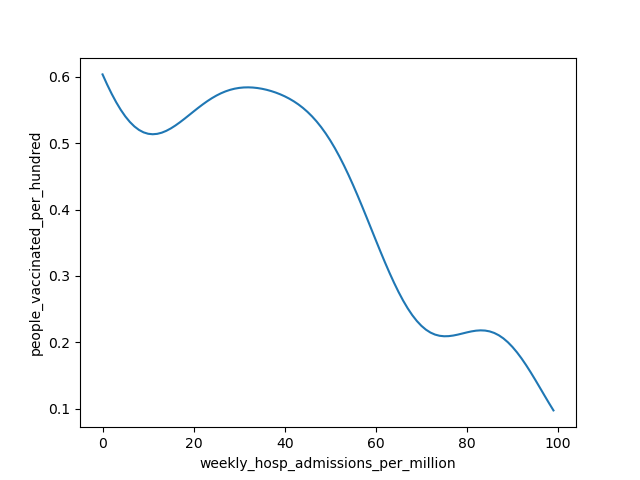
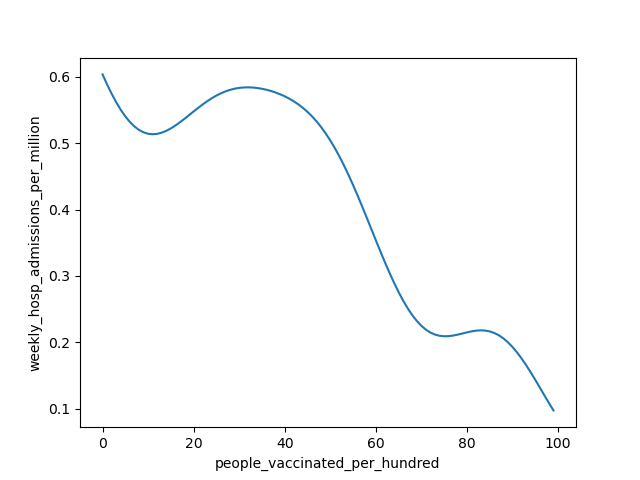
modify

Changed region(s): [[0.3125, 0.9375, 0.7188, 1.0], [0.0312, 0.25, 0.0625, 0.7812]]

diff --git a/model.py b/model.py
@@ -6,40 +6,86 @@ import pandas as pd
 import matplotlib.pyplot as plt
 import load_data
 
-data_raw = load_data.read_data("./data/owid-covid-data.csv")
-data = load_data.extract_data(
-    data_raw,
-    [
-        'reproduction_rate',
-        'total_vaccinations',
-        'people_vaccinated',
-        'people_fully_vaccinated',
-        'total_boosters',
-        'new_vaccinations',
-        'new_vaccinations_smoothed',
-        'total_vaccinations_per_hundred',
-        'people_vaccinated_per_hundred',
-        'people_fully_vaccinated_per_hundred',
-        'total_boosters_per_hundred',
-        'new_vaccinations_smoothed_per_million',
-        'new_people_vaccinated_smoothed',
-        'new_people_vaccinated_smoothed_per_hundred',
-        'stringency_index',
-        'population',
-        'population_density',
-        'median_age',
-        'aged_65_older',
-        'aged_70_older',
-        'gdp_per_capita',
-        'extreme_poverty',
-        'cardiovasc_death_rate',
-        'diabetes_prevalence',
-        'female_smokers',
-        'male_smokers',
-        'handwashing_facilities',
-        'hospital_beds_per_thousand',
-        'life_expectancy',
-        'human_development_index',
-    ],
-)
-print(data)
+data_raw = load_data.read_data("./data/owid-covid-data.csv",'location','United States')
+# data = load_data.extract_data(
+#     data_raw,
+#     [
+#         'reproduction_rate',
+#         'total_vaccinations',
+#         'people_vaccinated',
+#         'people_fully_vaccinated',
+#         'total_boosters',
+#         'new_vaccinations',
+#         'new_vaccinations_smoothed',
+#         'total_vaccinations_per_hundred',
+#         'people_vaccinated_per_hundred',
+#         'people_fully_vaccinated_per_hundred',
+#         'total_boosters_per_hundred',
+#         'new_vaccinations_smoothed_per_million',
+#         'new_people_vaccinated_smoothed',
+#         'new_people_vaccinated_smoothed_per_hundred',
+#         'stringency_index',
+#         'population',
+#         'population_density',
+#         'median_age',
+#         'aged_65_older',
+#         'aged_70_older',
+#         'gdp_per_capita',
+#         'extreme_poverty',
+#         'cardiovasc_death_rate',
+#         'diabetes_prevalence',
+#         'female_smokers',
+#         'male_smokers',
+#         'handwashing_facilities',
+#         'hospital_beds_per_thousand',
+#         'life_expectancy',
+#         'human_development_index',
+#     ],
+# )
+data_cases = np.array(load_data.extract_data(data_raw,['new_cases_smoothed']))
+data_days = np.arange(data_cases.shape[0]).reshape(-1,1)
+valid_data = ~np.isnan(data_cases)
+data_cases = data_cases[valid_data][100:]
+data_days = data_days[valid_data][100:]
+
+tensor_X = torch.tensor(data_days, dtype=torch.float32,requires_grad=True).reshape(-1,1,1)
+tensor_Y = torch.tensor(data_cases, dtype=torch.float32).reshape(-1,1)
+class Lstm(nn.Module):
+    def __init__(self, input_size, hidden_size, output_size):
+        super(Lstm, self).__init__()
+        self.hidden_size = hidden_size
+        self.input_size = input_size
+        self.output_size = output_size
+        self.lstm = nn.LSTM(input_size, hidden_size)
+        self.fc = nn.Linear(hidden_size, output_size)
+
+    def forward(self, x, hidden):
+        out, _ = self.lstm(x, hidden)
+        out = self.fc(out[:, -1, :])
+        return out , _
+
+model = Lstm(1, 100, 1)
+loss_fuction = nn.MSELoss()
+optimizer = torch.optim.Adam(model.parameters(), lr=1)
+
+epochs = 10000
+hidden =  (torch.zeros(1, 1, 100), torch.zeros(1, 1, 100))
+
+for i in range(epochs):
+    hidden =  (torch.zeros(1 , 1 , 100), torch.zeros(1, 1, 100))
+    y_hat,hidden = model(tensor_X , hidden)
+    loss = loss_fuction(y_hat, tensor_Y)
+    optimizer.zero_grad()
+    loss.backward()
+    optimizer.step()
+    if i % 100 == 0:
+        print(f"epoch {i} loss {loss.item()}")
+
+hidden =  (torch.zeros(1, 1, 100), torch.zeros(1, 1, 100))
+X_future = torch.arange(100,data_days.shape[0] + 100,dtype=torch.float32).reshape(-1,1,1)
+Y_future,_ = model(X_future,hidden)
+
+plt.figure()
+plt.plot(X_future.squeeze().detach().numpy(),Y_future.squeeze().detach().numpy())
+plt.show()
+

diff --git a/further_analysis.py b/further_analysis.py
@@ -36,8 +36,8 @@ def analyze_vaccination_and_hospitalization():
         Y_fit = model.predict(X_fit)
         plt.figure()
         plt.plot(X_fit, Y_fit)
-        plt.xlabel(target1)
-        plt.ylabel(target2)
+        plt.xlabel(target2)
+        plt.ylabel(target1)
         plt.savefig("./result/" + target1  + "_relation_with" + target2 + ".png")        
         
     analyzer("weekly_icu_admissions_per_million","people_vaccinated_per_hundred","rbf")
